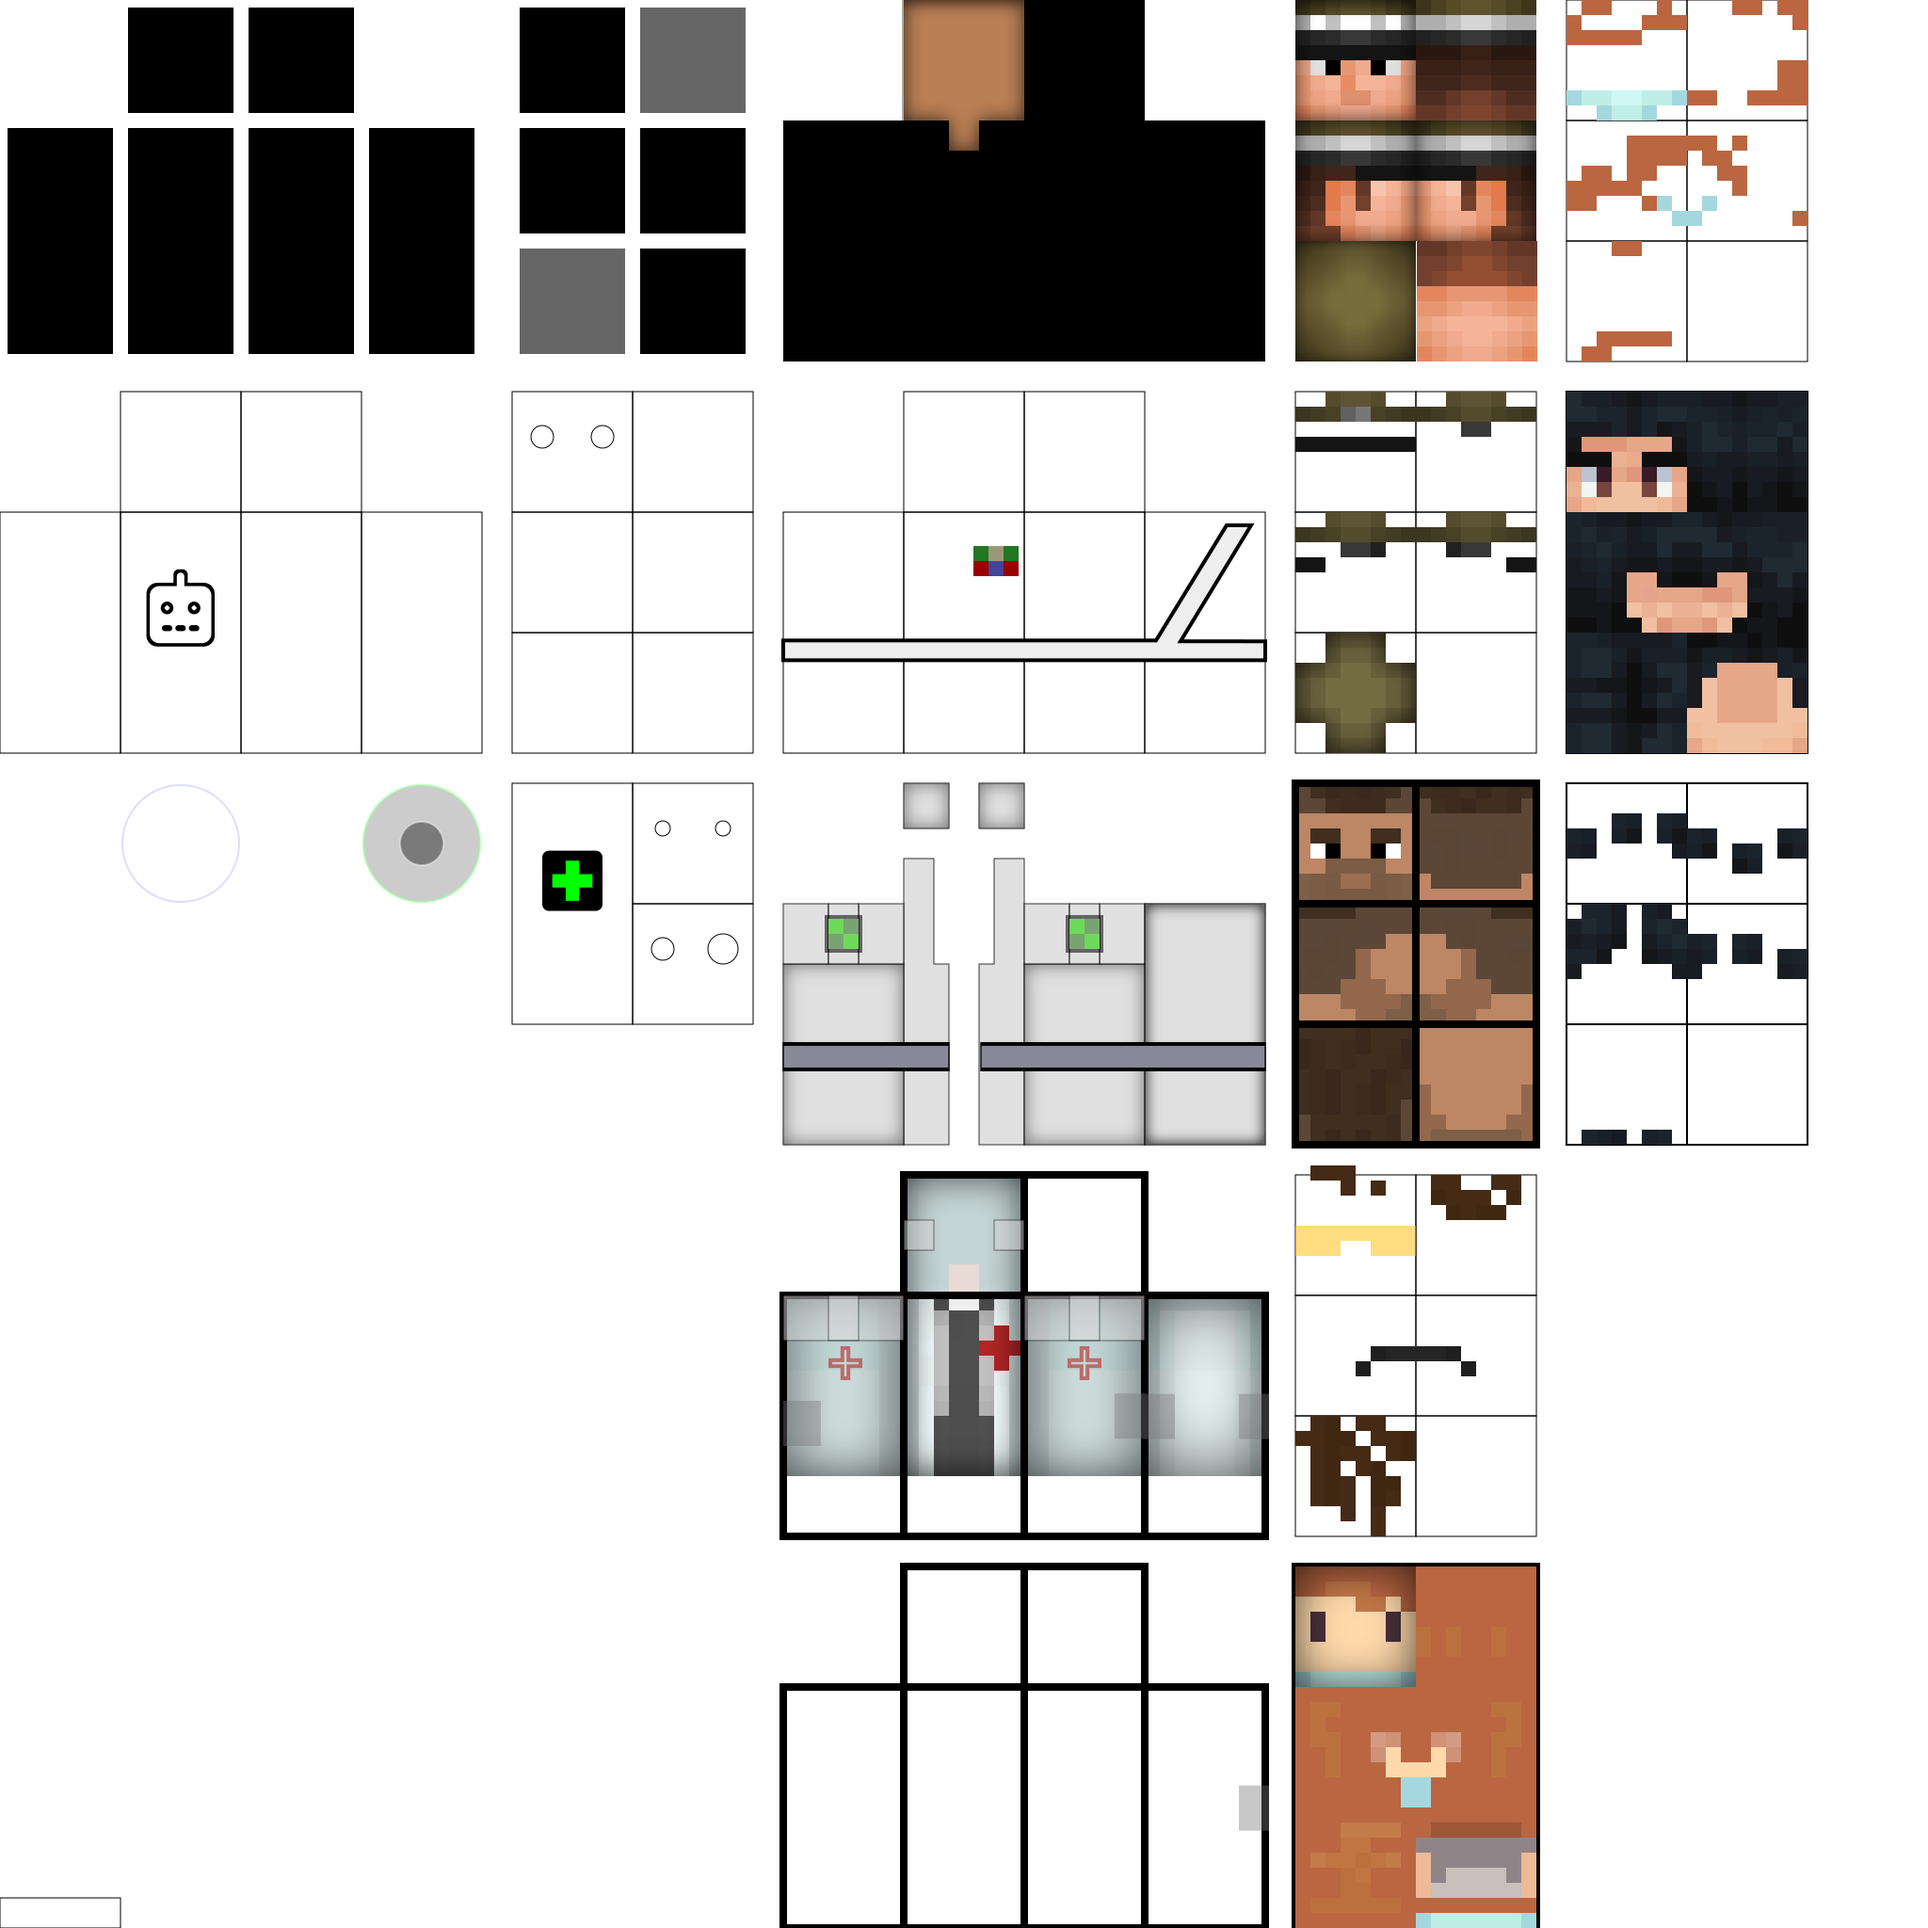
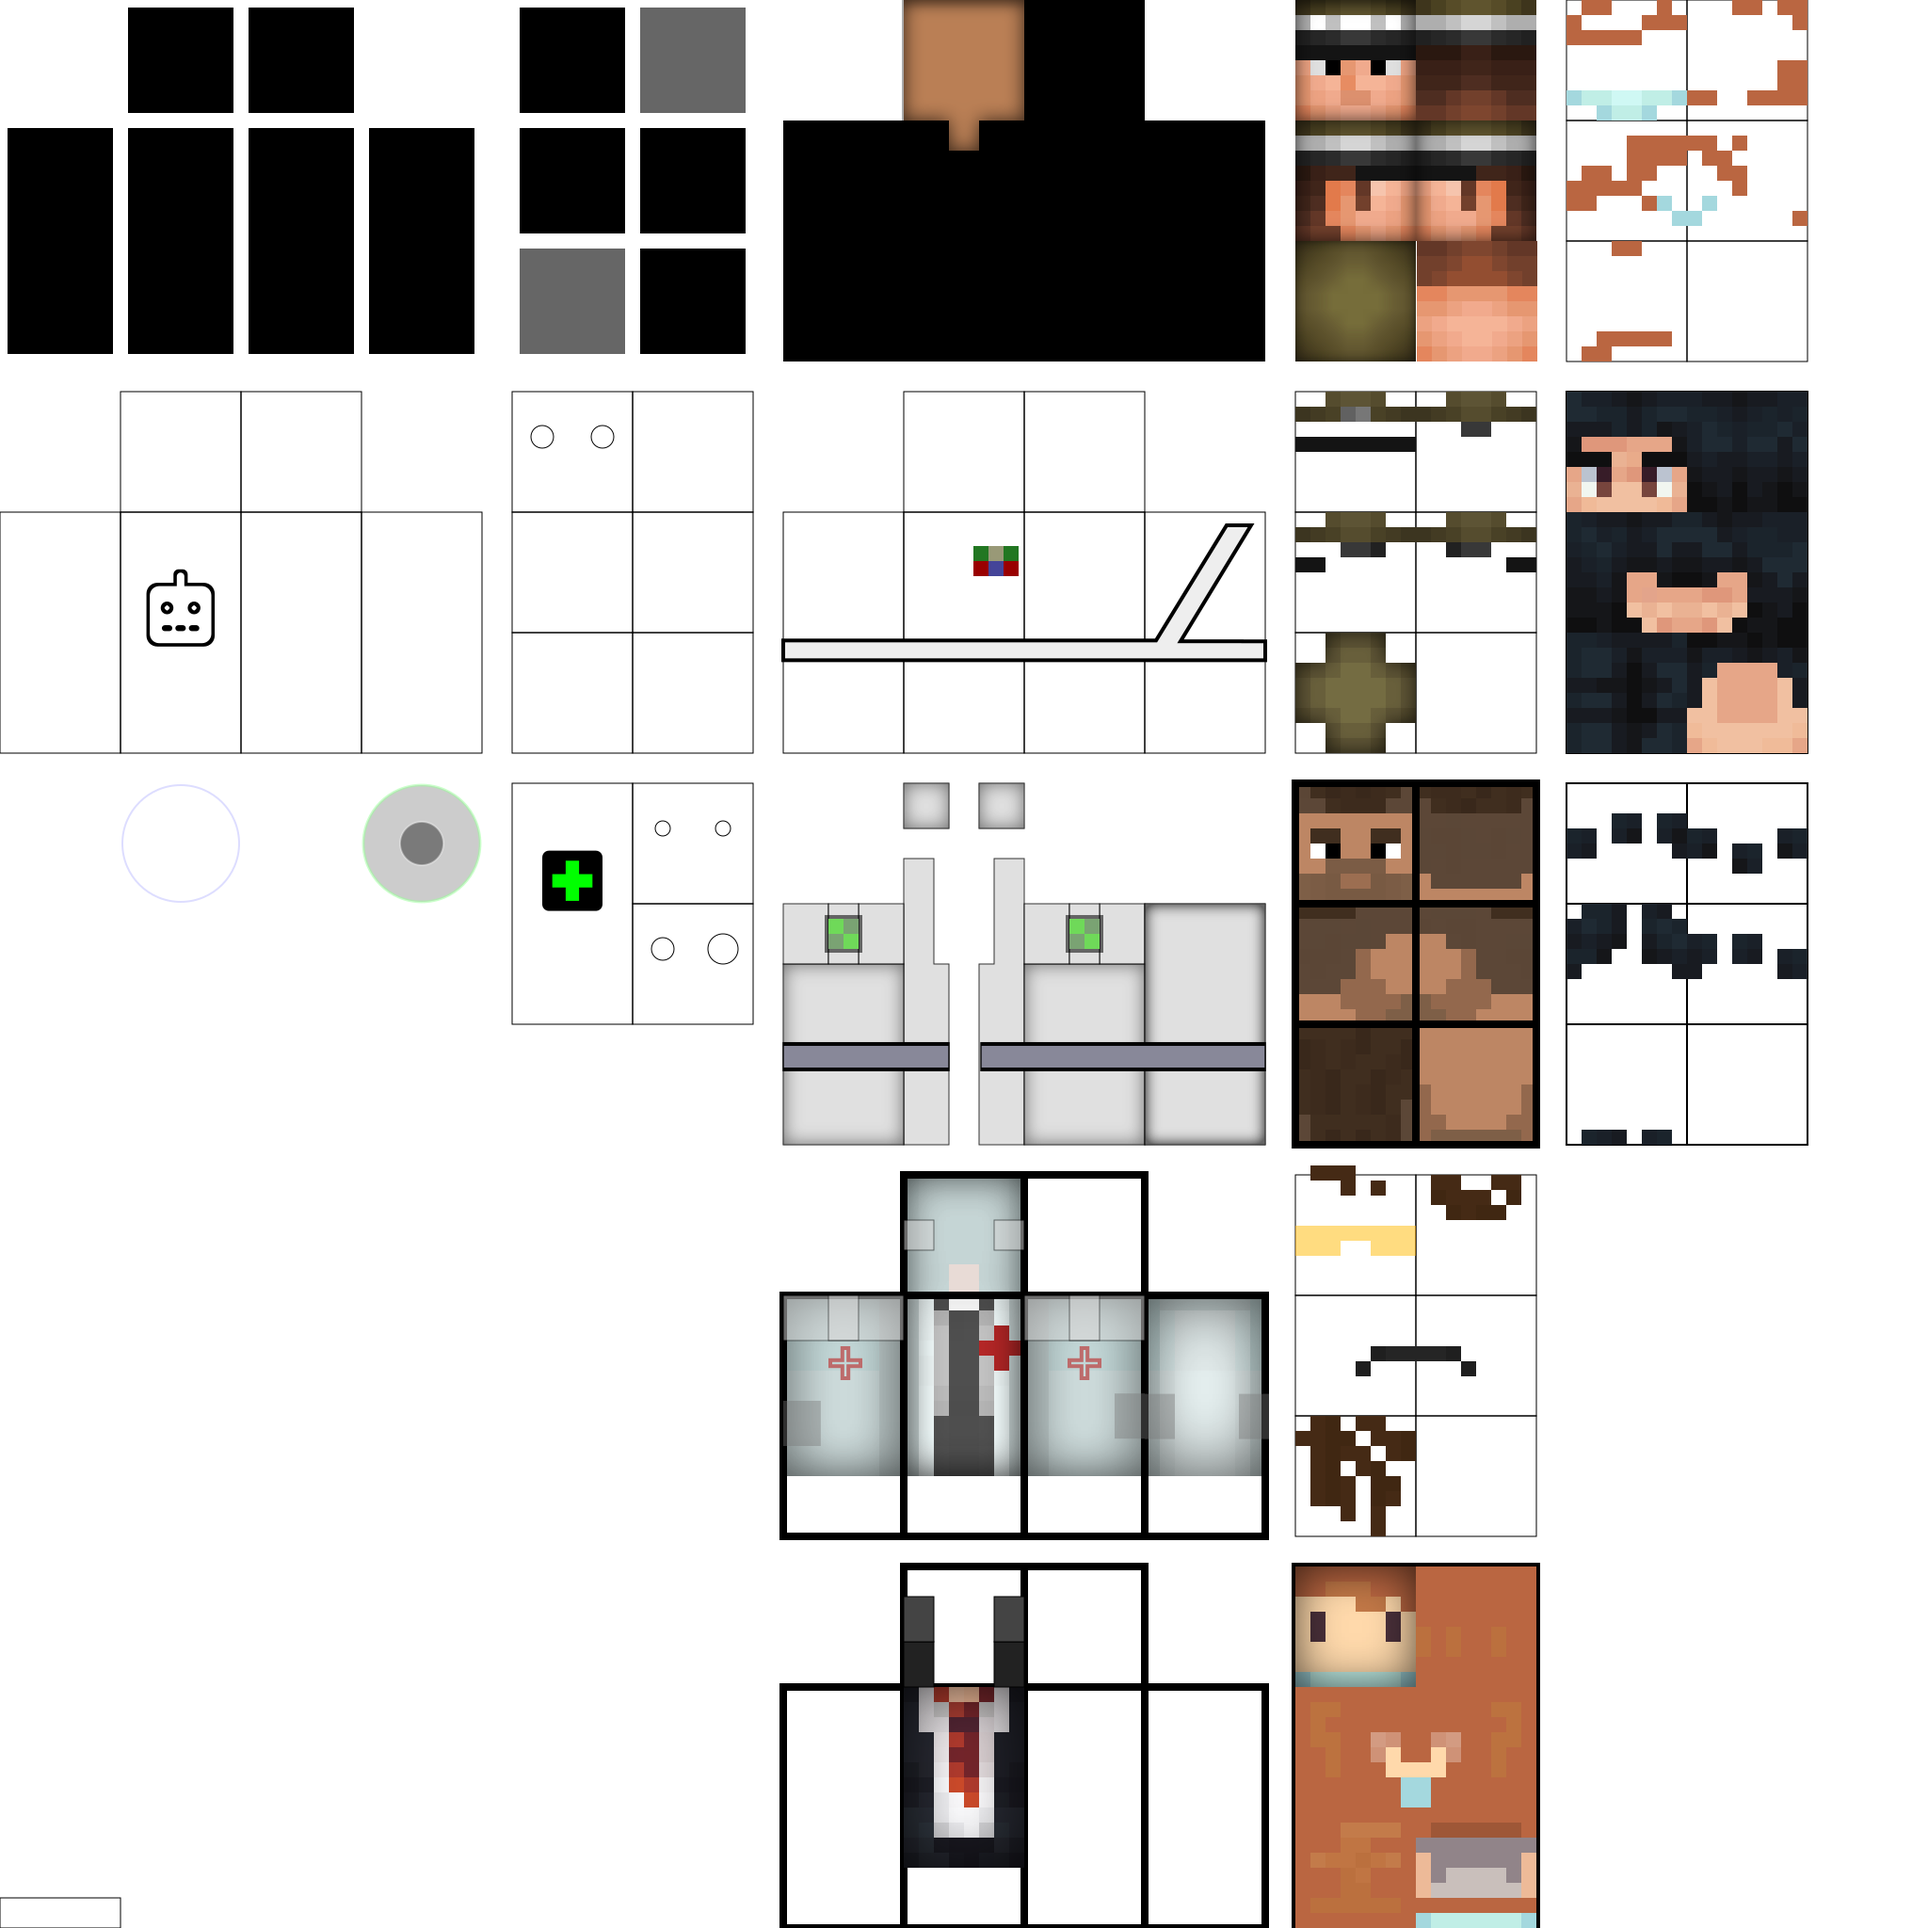
feat: skin: suit-0 towards body-overlay

Changed region(s): [[0.4688, 0.8125, 0.5312, 0.9688], [0.625, 0.9062, 0.6562, 0.9688]]

diff --git a/README.md b/README.md
@@ -49,6 +49,7 @@ Then you can run the various scripts (as needed) found inside `scripts/get-pngs.
 1. npm module `canvas` (a.k.a. node-canvas) loadImage does not handle both `transform` and `transform-box`.
    > https://github.com/Automattic/node-canvas/issues/2507
 
+  
   ```xml
   <path d="M 1088 192 L 1088 128 L 1040 192 L 1088 192 Z" style="fill: rgb(216, 216, 216); stroke: rgb(0, 0, 0); transform-box: fill-box; transform-origin: 50% 50%;" transform="matrix(-1, 0, 0, -1, 0, 0)">
     <bx:title>_debug-path-transform</bx:title>
@@ -57,6 +58,7 @@ Then you can run the various scripts (as needed) found inside `scripts/get-pngs.
 
   In BoxySVG we can `Object > transform > Reduce Transform`.
 
+2. Similar for transform on `<image>` e.g. scale.
 
 ## Development only routes
 
